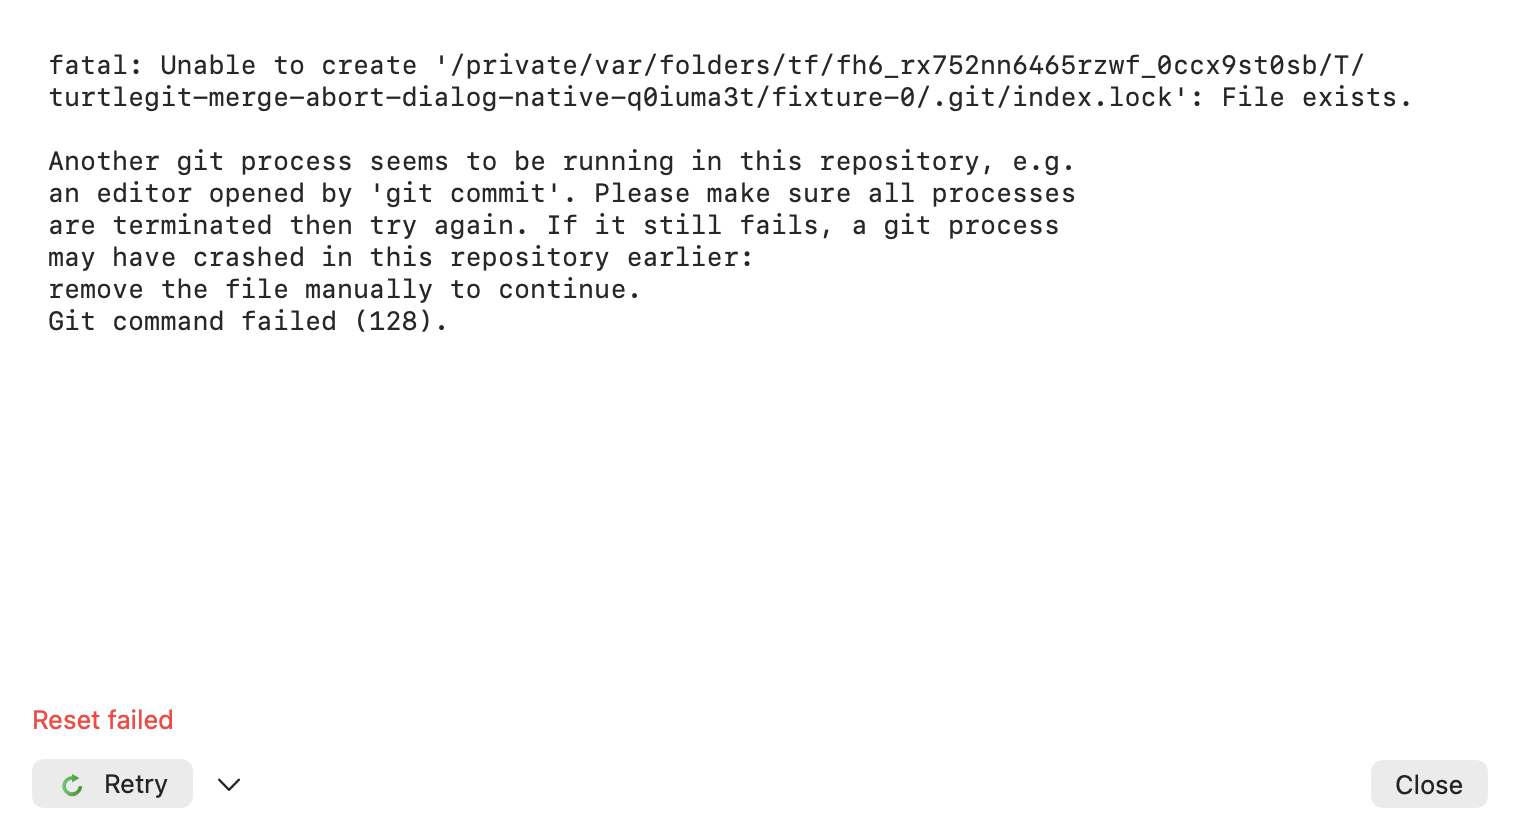
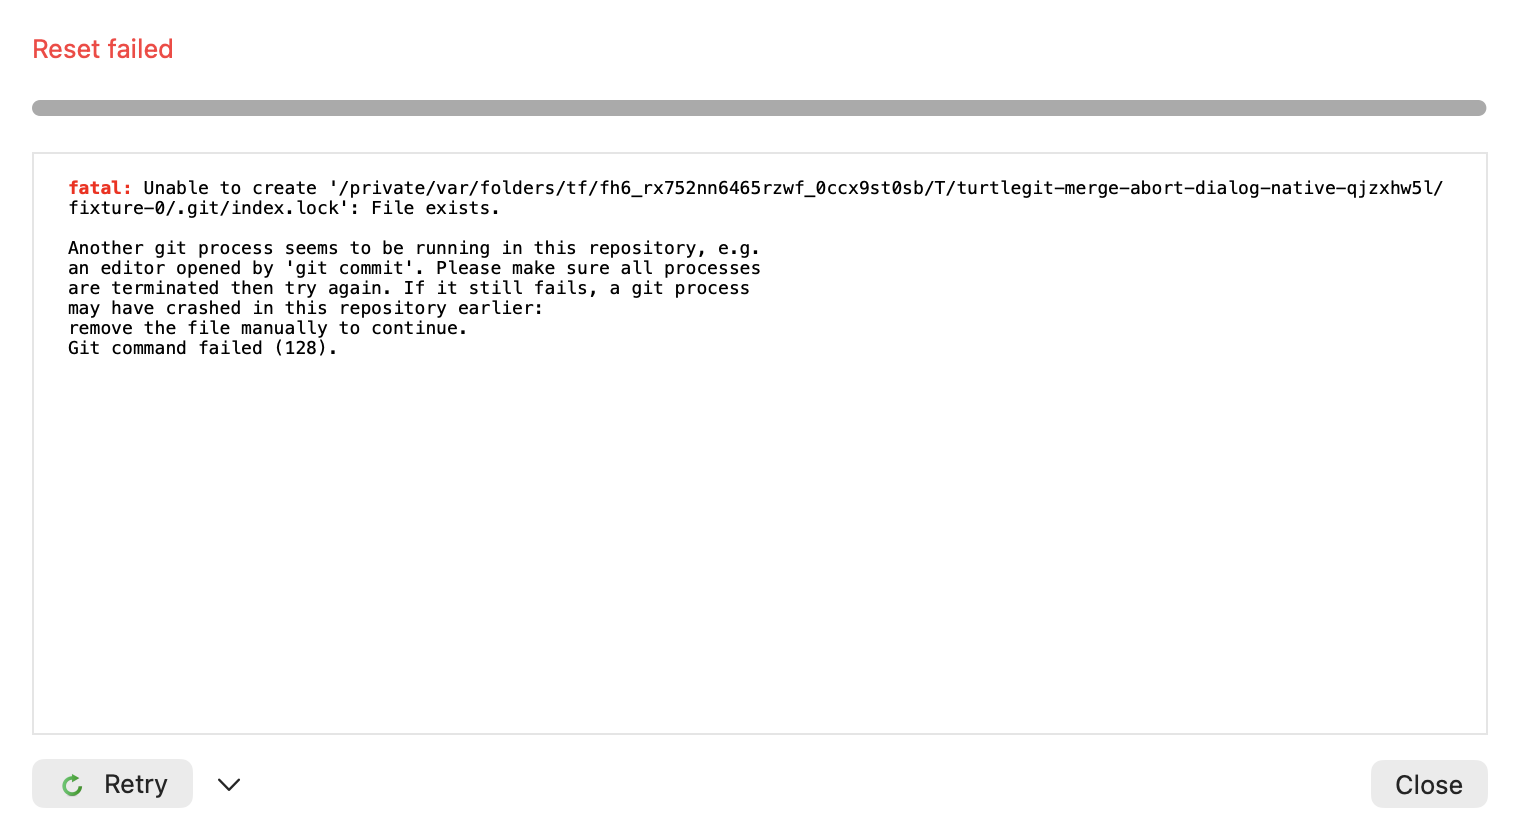
Record Abort Merge output checks and refresh native progress captures

Changed region(s): [[0.0, 0.031, 0.9895, 0.4333], [0.0, 0.8357, 0.1237, 0.8976]]

diff --git a/docs/site/index.html b/docs/site/index.html
@@ -23,11 +23,11 @@
     <figure><a href="assets/log-messages.png"><img src="assets/log-messages.png" alt="Native TurtleGit Log Messages window showing a two-lane merge graph, branch and tag labels, a full commit message, and changed files with line counts." width="2240" height="1624"></a><figcaption>Native Log Messages, captured on 10 October 2026: compact graph beside revisions, colored branch/tag labels, the selected message and files grouped by merge parent. <a href="@@REPOSITORY_URL@@/blob/main/docs/qa/dialog-captures-2026-10-10.json">Development capture details</a>.</figcaption></figure>
     <h2 id="abort-merge">Abort Merge with familiar reset choices</h2>
     <p>Choose Merge, Mixed or Hard in the native Abort Merge dialog. Show modified files opens an owned comparison of HEAD with the working tree. OK opens a separate Reset progress window, where Git output appears as the command runs.</p>
-    <figure><a href="assets/merge-abort-options-light.png"><img src="assets/merge-abort-options-light.png" alt="Native light Abort Merge options: reminder, Merge/Mixed/Hard radio choices, enabled Show modified files button with original icon, and OK, Cancel and Help." width="1320" height="530" loading="lazy"></a><figcaption>Native content capture, 10 October 2026, from a private sample repository. The nine source options roles retain their order and grouping. Window chrome is excluded; physical input and signed acceptance remain pending.</figcaption></figure>
+    <figure><a href="assets/merge-abort-options-light.png"><img src="assets/merge-abort-options-light.png" alt="Native light Abort Merge options: reminder, Merge/Mixed/Hard radio choices, enabled Show modified files button with original icon, and OK, Cancel and Help." width="1320" height="530" loading="lazy"></a><figcaption>Native content capture, 11 October 2026, from a private sample repository. The nine source options roles retain their order and grouping. Window chrome is excluded; physical input and signed acceptance remain pending.</figcaption></figure>
     <figure><a href="assets/merge-abort-options-dark.png"><img src="assets/merge-abort-options-dark.png" alt="The same native Abort Merge options in dark appearance, preserving the original comparison icon." width="1320" height="530" loading="lazy"></a><figcaption>Dark appearance with readable controls and the same full-width comparison action.</figcaption></figure>
-    <p>If a reset fails, its Git diagnostic stays visible beside Retry and Close. Merge Retry returns to the options; Mixed and Hard Retry repeat the selected reset. Escape cancels an active command and closes progress after the process stops; it also closes a finished result. The existing confirmation setting asks Yes/No before cancellation.</p>
+    <p>If a reset fails, its Git diagnostic stays visible beside Retry and Close. Merge Retry returns to the options; Mixed and Hard Retry repeat the selected reset. Escape cancels an active command and closes progress after the process stops; it also closes a finished result. The existing confirmation setting asks Yes/No before cancellation. The selectable output offers Copy and Copy All with original icons, preserves selection when copying all, and highlights error prefixes and links after completion.</p>
     <figure><a href="assets/merge-abort-reset-failed-light.png"><img src="assets/merge-abort-reset-failed-light.png" alt="Native light Reset progress showing a real Git index-lock diagnostic, red Reset failed status, original green Retry icon and Close." width="1520" height="840" loading="lazy"></a><figcaption>A real Git lock failure deliberately produced in the disposable sample repository. Native keyboard routing, ownership, cancellation and retries pass with system and packaged Git. <a href="@@REPOSITORY_URL@@/blob/main/docs/MERGE-PARITY.md">Verification and remaining work →</a></figcaption></figure>
-    <figure><a href="assets/merge-abort-reset-failed-dark.png"><img src="assets/merge-abort-reset-failed-dark.png" alt="The same actual Git reset failure in dark appearance with readable diagnostics and colored status and icon." width="1520" height="840" loading="lazy"></a><figcaption>Dark Reset progress. Full progress menus/options, factory entry and signed acceptance remain under review.</figcaption></figure>
+    <figure><a href="assets/merge-abort-reset-failed-dark.png"><img src="assets/merge-abort-reset-failed-dark.png" alt="The same actual Git reset failure in dark appearance with readable diagnostics and colored status and icon." width="1520" height="840" loading="lazy"></a><figcaption>Dark Reset progress with styled diagnostics. Animation, completion timing text, other progress options, factory entry and signed acceptance remain under review.</figcaption></figure>
     <h2>Choose the Log walk order</h2>
     <p>Click a revision-table column header to open Log commit ordering. Choose Git’s chronological default, topology, committer-date or author-date order; OK saves the choice and refreshes Log while retaining commit selection. Cancel preserves the previous setting. <a href="@@REPOSITORY_URL@@/blob/main/docs/LOG-ORDERING-PARITY.md">Ordering implementation and source audit →</a></p>
     <figure><a href="assets/log-ordering-light.png"><img src="assets/log-ordering-light.png" alt="Native light Log commit ordering dialog with Commit Ordering dropdown, OK and Cancel." width="960" height="200" loading="lazy"></a><figcaption>Actual native content capture from a hidden sheet, 10 October 2026. Header dispatch, four real Git walks, draft cancellation, Return, selection preservation and owned close pass with system and packaged Git. Window chrome is excluded; physical and signed acceptance remain pending.</figcaption></figure>

diff --git a/docs/MERGE-PARITY.md b/docs/MERGE-PARITY.md
@@ -472,3 +472,32 @@ See [the confirmation record](qa/merge-abort-confirm-2026-10-11.json).
 These are native event/controller checks on the current host; physical input,
 other macOS runtime versions, full progress menus/options, factory/submodule and
 signed acceptance remain pending. Full dialog/app parity is not certified.
+
+## Abort Merge progress output, October 11
+
+Abort Merge now uses the shared native selectable output control. Its context menu
+matches the pinned `CProgressDlg::PreTranslateMessage`: Copy, a separator and Copy
+all information to clipboard, with the original clipboard icon on both actions.
+Copy is disabled without a selection. Copy All preserves selection and viewport;
+the application context-menu icon preference applies to both commands. Completed
+output follows the existing font and styling preferences, highlights fatal/error/
+warning prefixes and detects links.
+
+The current work label and progress bar are above the output, following
+`IDD_GITPROGRESS`. Parsed percentages update while reset runs; completion fills the
+bar to 100 percent. Native macOS rendering determines the bar appearance; the
+inactive hidden capture renders it gray, so these checks do not establish the
+upstream red error-bar appearance. Animation, completion timing text, Dock progress
+and full progress options remain pending. This is still a partial port.
+
+The receiver checks the actual Abort Merge output view and menu targets using a
+private clipboard, including Unicode, icon preferences, selection/viewport and
+completed error/link attributes. Its progress fixture uses one ordered stderr
+stream: an earlier mixed stdout/stderr fixture allowed a delayed diagnostic to
+overwrite the simulated carriage-return progress line. The failed run was stopped
+and its owned helper group cleaned by the runner.
+
+Final checks pass with both system and packaged Git, and the shared output-control
+regression passes. Four inspected native content captures were refreshed on the
+website. See [the output record](qa/merge-abort-output-2026-10-11.json) for exact
+source/capture hashes and verification scope.

diff --git a/docs/PORTING.md b/docs/PORTING.md
@@ -45,8 +45,9 @@ The Log’s **Show branches this commit is on** action now opens a native modele
 reference dialog with containment filtering, original branch/tag artwork, one/two/
 many selection menus, comparisons and owned Browse References/Log/Reflog pickers.
 Targeted Core and hidden native checks pass; light/dark content captures are on
-the website. This advances one of the 130 dialogs to partial implementation:
-47 dialogs are now partial and 83 await review. No dialog is certified complete.
+the website. Abort Merge progress now also has reviewed native control mappings.
+Across the 130 inventoried dialogs:
+48 dialogs are now partial and 82 await review. No dialog is certified complete.
 See [the reference dialog audit](COMMIT-CONTAINING-REFS-PARITY.md).
 
 Log commit ordering now has the source’s four-choice native sheet, deferred
@@ -59,7 +60,8 @@ window, with mode-specific retry and cancellation through all owned reads.
 Hidden controller and key-equivalent checks pass with system and packaged Git;
 inspected light/dark content captures are on the website. Physical input, full
 progress options and signed acceptance remain pending. Reset output now streams
-through the shared bounded parser. See
+through the shared bounded parser; the native selectable output adds original-icon
+Copy/Copy All, error and link styling, and current-work/percentage presentation. See
 [the Merge follow-up](MERGE-PARITY.md#abort-merge-ownership-follow-up-october-10).
 
 ## Audited baseline

diff --git a/docs/PROGRESS-PARITY.md b/docs/PROGRESS-PARITY.md
@@ -91,3 +91,19 @@ close and before replacing an attempt, using the source retention/cancellation
 rules. Settings → Saved Data provides the source Action log group. The
 [Action log guide](ACTION-LOG.md) lists coverage and explicit remaining gaps;
 headless QA is recorded in [the checkpoint](qa/action-log-2026-10-08.json).
+
+## Abort Merge output adoption, October 11
+
+Abort Merge adopts the shared native output control already used by submodule
+progress. The actual controller receiver verifies its icon-bearing Copy/Copy All
+menu dispatch, private Unicode clipboard, preserved selection/viewport, completed
+fatal prefix and URL attributes and parsed live current-work/percentage values
+with system and packaged Git. The standalone shared-control regression also
+passes. Current-work and progress appear above the output; the finished bar is
+full. New unedited light/dark captures show a real index-lock failure.
+
+This does not complete `IDD_GITPROGRESS`: animation, completion timing/footer,
+Dock progress, full options and physical/signed acceptance remain pending for
+Abort Merge. The hidden inactive native bar renders gray even though its tint is
+set for failure; source-equivalent red error-bar appearance is not proven.
+See [Merge parity](MERGE-PARITY.md#abort-merge-progress-output-october-11).
